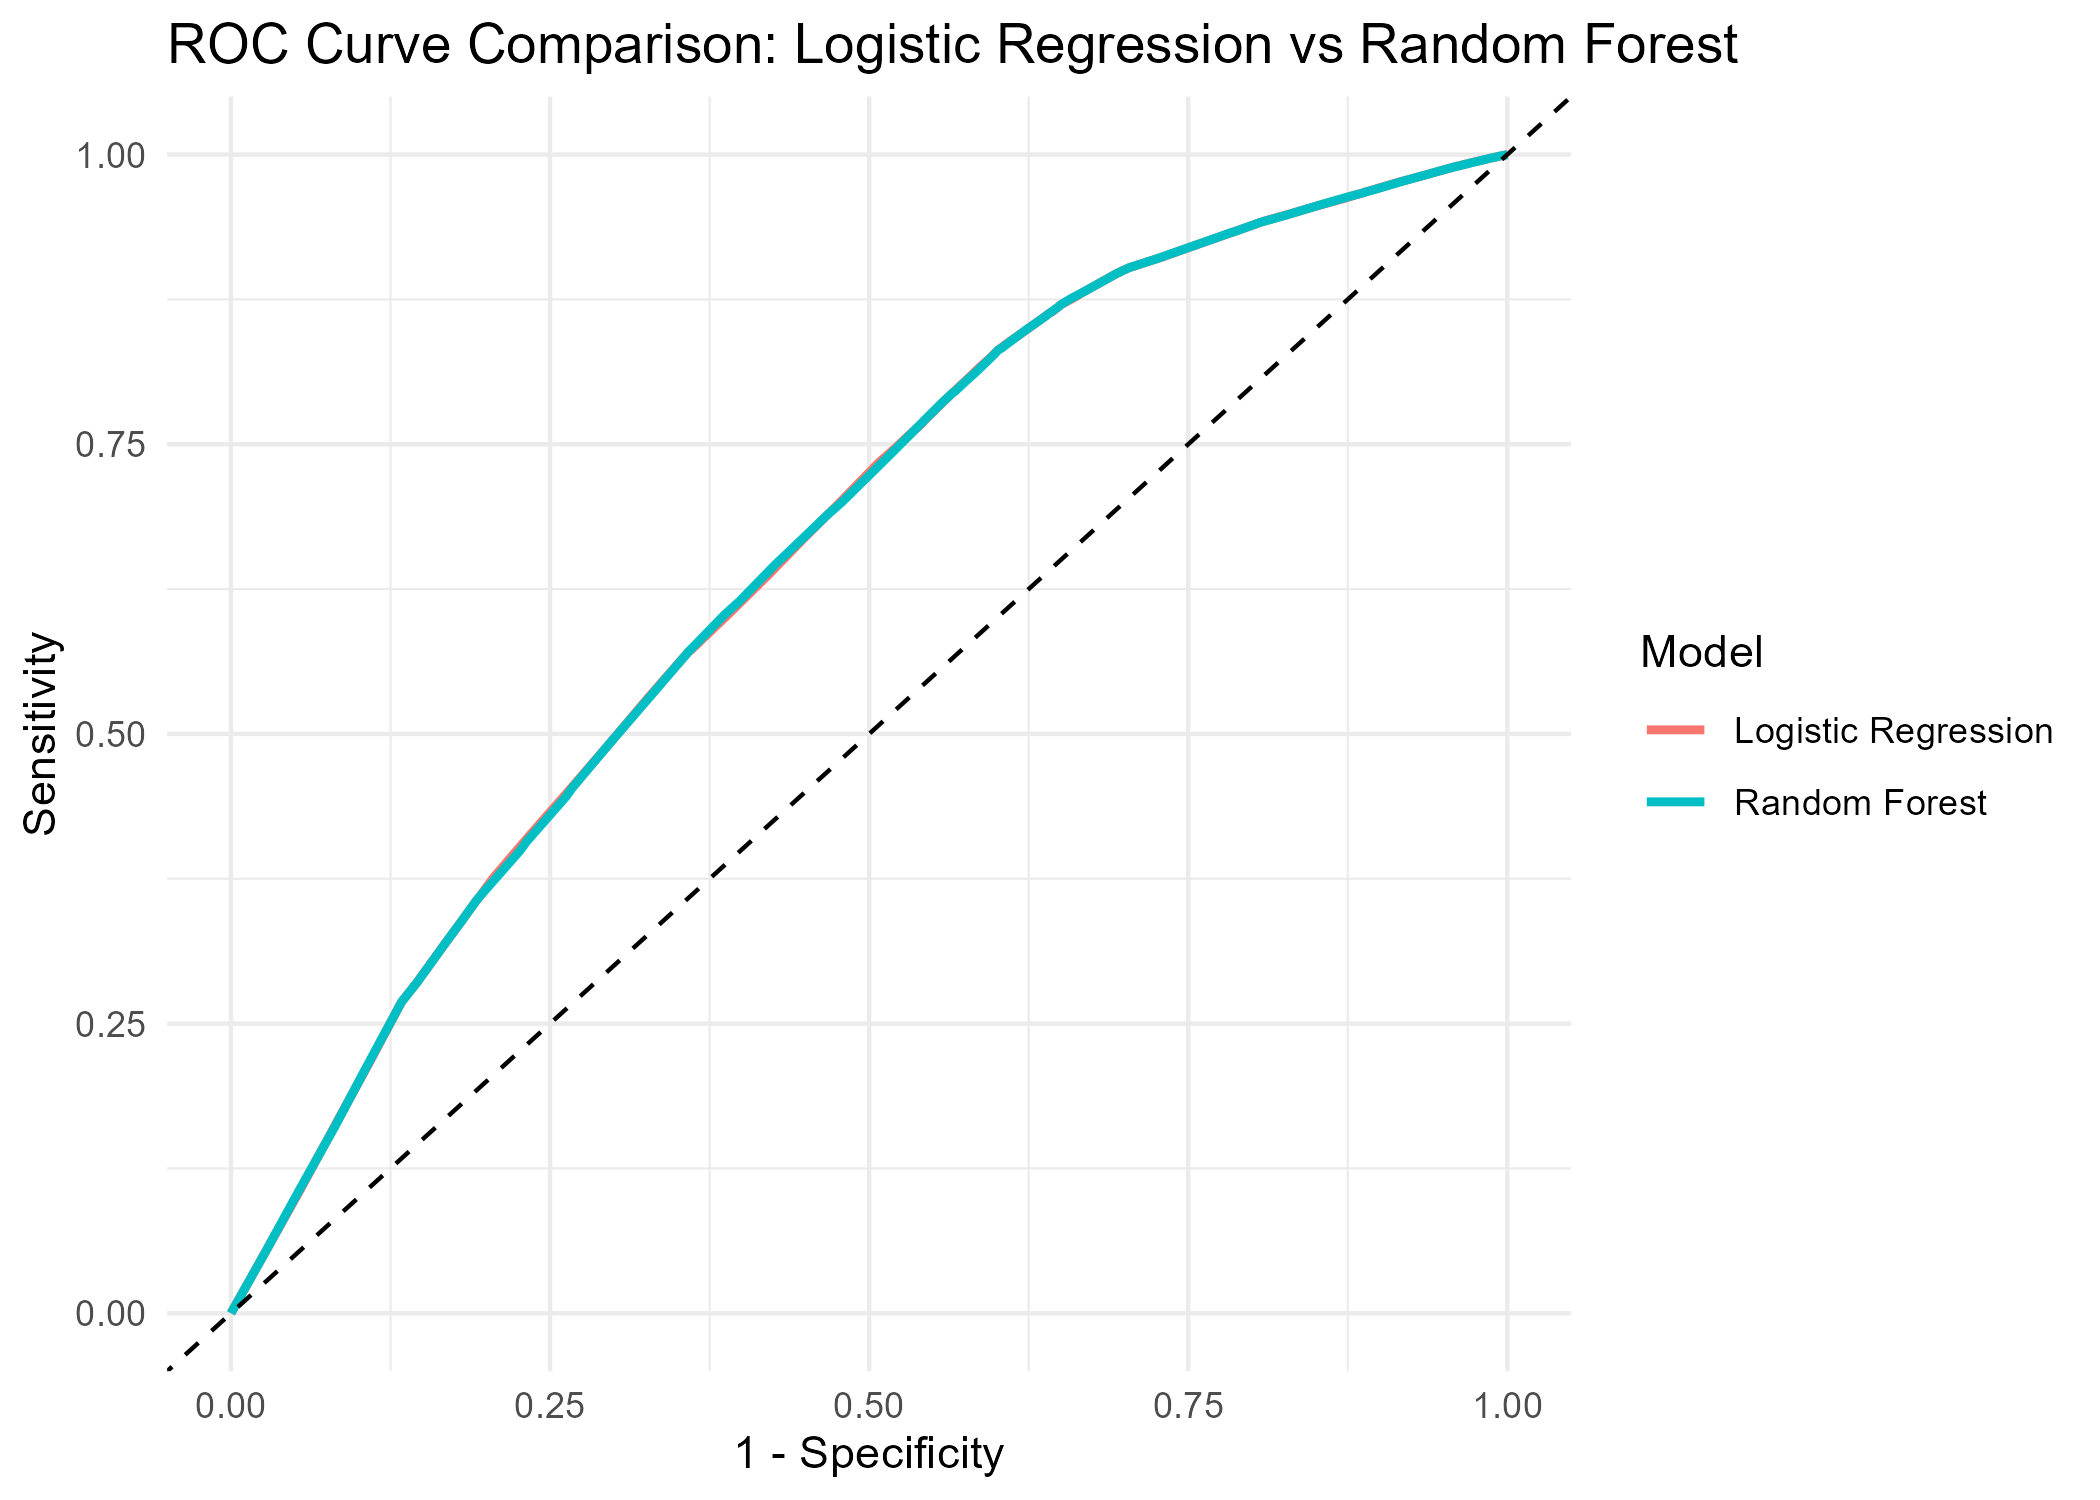
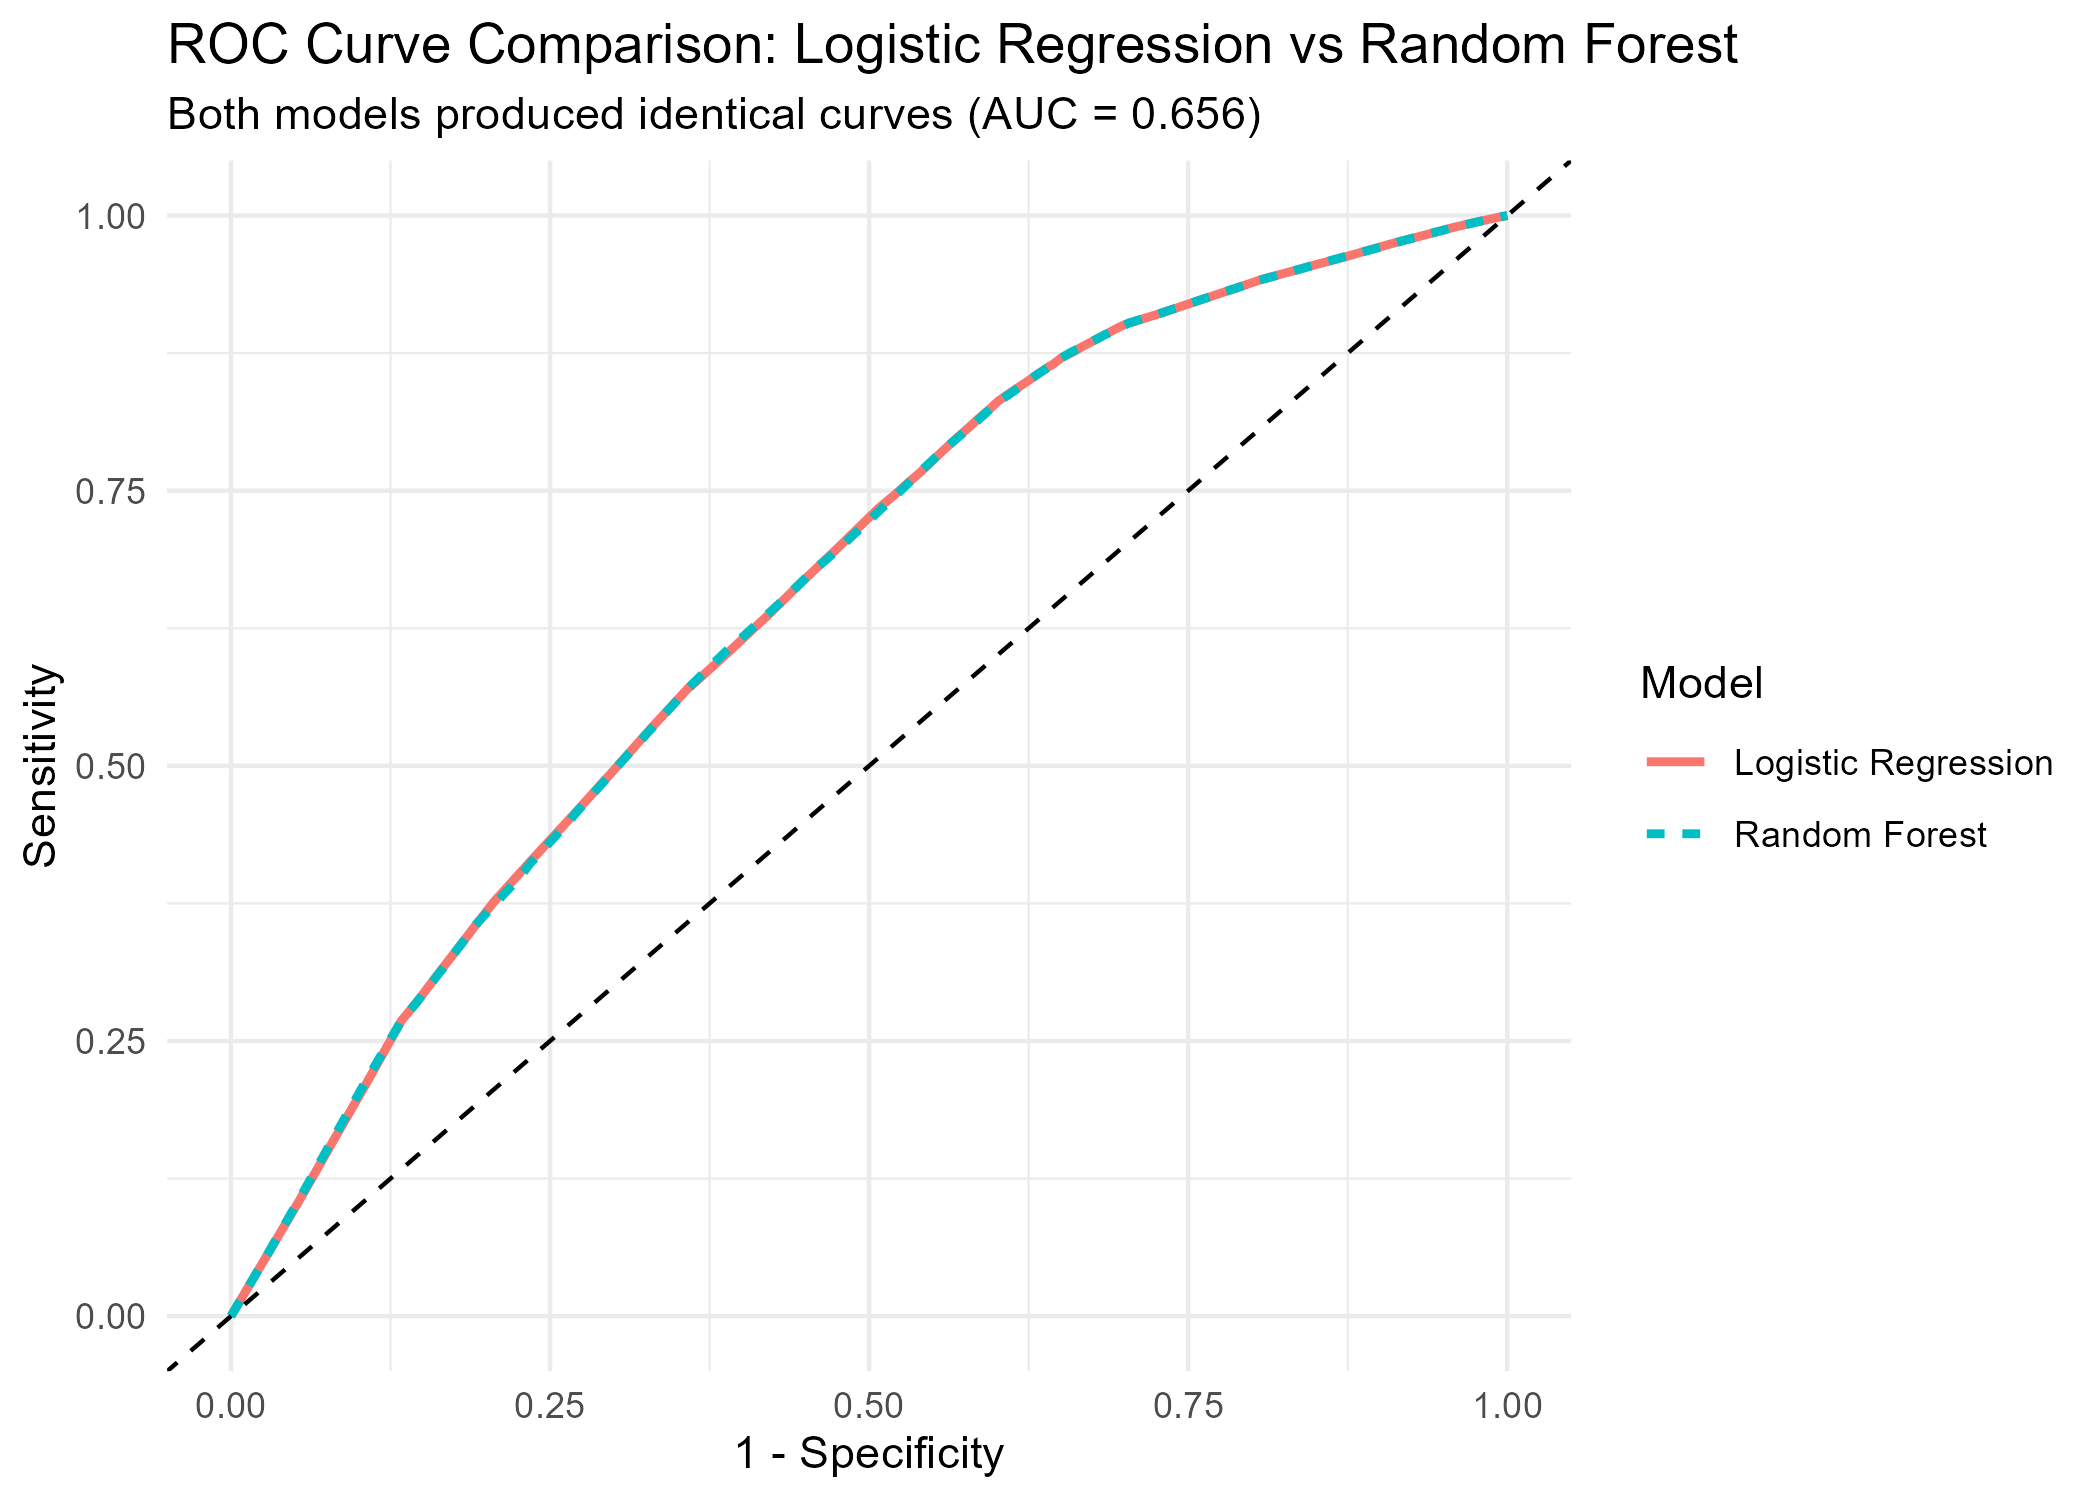
fix bpg_deprs8 recoding and update all analysis files

diff --git a/code/processing/02_create_analytic_dataset.html b/code/processing/02_create_analytic_dataset.html
@@ -170,34 +170,45 @@ pre > code.sourceCode > span > a:first-child::before { text-decoration: underlin
 <span id="cb1-59"><a href="#cb1-59" aria-hidden="true" tabindex="-1"></a>          pp_depress <span class="sc">%in%</span> <span class="fu">c</span>(<span class="dv">1</span>, <span class="st">"1"</span>) <span class="sc">~</span> <span class="dv">1</span>,</span>
 <span id="cb1-60"><a href="#cb1-60" aria-hidden="true" tabindex="-1"></a>          pp_depress <span class="sc">%in%</span> <span class="fu">c</span>(<span class="dv">2</span>, <span class="st">"2"</span>) <span class="sc">~</span> <span class="dv">0</span>,</span>
 <span id="cb1-61"><a href="#cb1-61" aria-hidden="true" tabindex="-1"></a>          <span class="cn">TRUE</span> <span class="sc">~</span> <span class="cn">NA_real_</span></span>
-<span id="cb1-62"><a href="#cb1-62" aria-hidden="true" tabindex="-1"></a>        )</span>
-<span id="cb1-63"><a href="#cb1-63" aria-hidden="true" tabindex="-1"></a>      ) <span class="sc">|&gt;</span></span>
-<span id="cb1-64"><a href="#cb1-64" aria-hidden="true" tabindex="-1"></a>      <span class="fu">filter</span>(<span class="sc">!</span><span class="fu">is.na</span>(screened), <span class="sc">!</span><span class="fu">is.na</span>(pp_depress_bin))</span>
-<span id="cb1-65"><a href="#cb1-65" aria-hidden="true" tabindex="-1"></a></span>
-<span id="cb1-66"><a href="#cb1-66" aria-hidden="true" tabindex="-1"></a>    <span class="co"># Create processed-data folder if needed</span></span>
-<span id="cb1-67"><a href="#cb1-67" aria-hidden="true" tabindex="-1"></a>    <span class="fu">dir.create</span>(<span class="fu">here</span>(<span class="st">"data"</span>, <span class="st">"processed-data"</span>), <span class="at">recursive =</span> <span class="cn">TRUE</span>, <span class="at">showWarnings =</span> <span class="cn">FALSE</span>)</span>
-<span id="cb1-68"><a href="#cb1-68" aria-hidden="true" tabindex="-1"></a></span>
-<span id="cb1-69"><a href="#cb1-69" aria-hidden="true" tabindex="-1"></a>    <span class="co"># Save analytic dataset</span></span>
-<span id="cb1-70"><a href="#cb1-70" aria-hidden="true" tabindex="-1"></a>    <span class="fu">saveRDS</span>(analytic_dat, <span class="fu">here</span>(<span class="st">"data"</span>, <span class="st">"processed-data"</span>, <span class="st">"prams_analytic_localfix.rds"</span>))</span>
-<span id="cb1-71"><a href="#cb1-71" aria-hidden="true" tabindex="-1"></a></span>
-<span id="cb1-72"><a href="#cb1-72" aria-hidden="true" tabindex="-1"></a>    <span class="co"># Confirm saved</span></span>
-<span id="cb1-73"><a href="#cb1-73" aria-hidden="true" tabindex="-1"></a>    <span class="fu">file.exists</span>(<span class="fu">here</span>(<span class="st">"data"</span>, <span class="st">"processed-data"</span>, <span class="st">"prams_analytic_localfix.rds"</span>))</span>
-<span id="cb1-74"><a href="#cb1-74" aria-hidden="true" tabindex="-1"></a></span>
-<span id="cb1-75"><a href="#cb1-75" aria-hidden="true" tabindex="-1"></a>    <span class="co"># Quick checks</span></span>
-<span id="cb1-76"><a href="#cb1-76" aria-hidden="true" tabindex="-1"></a>    <span class="fu">dim</span>(analytic_dat)</span>
-<span id="cb1-77"><a href="#cb1-77" aria-hidden="true" tabindex="-1"></a></span>
-<span id="cb1-78"><a href="#cb1-78" aria-hidden="true" tabindex="-1"></a>    analytic_dat <span class="sc">|&gt;</span> <span class="fu">count</span>(screened) <span class="sc">|&gt;</span> <span class="fu">mutate</span>(<span class="at">pct =</span> n <span class="sc">/</span> <span class="fu">sum</span>(n))</span>
-<span id="cb1-79"><a href="#cb1-79" aria-hidden="true" tabindex="-1"></a>    analytic_dat <span class="sc">|&gt;</span> <span class="fu">count</span>(pp_depress_bin) <span class="sc">|&gt;</span> <span class="fu">mutate</span>(<span class="at">pct =</span> n <span class="sc">/</span> <span class="fu">sum</span>(n))</span>
-<span id="cb1-80"><a href="#cb1-80" aria-hidden="true" tabindex="-1"></a></span>
-<span id="cb1-81"><a href="#cb1-81" aria-hidden="true" tabindex="-1"></a>    analytic_dat <span class="sc">|&gt;</span></span>
-<span id="cb1-82"><a href="#cb1-82" aria-hidden="true" tabindex="-1"></a>      <span class="fu">count</span>(screened, pp_depress_bin) <span class="sc">|&gt;</span></span>
-<span id="cb1-83"><a href="#cb1-83" aria-hidden="true" tabindex="-1"></a>      <span class="fu">group_by</span>(screened) <span class="sc">|&gt;</span></span>
-<span id="cb1-84"><a href="#cb1-84" aria-hidden="true" tabindex="-1"></a>      <span class="fu">mutate</span>(<span class="at">pct =</span> n <span class="sc">/</span> <span class="fu">sum</span>(n))</span>
+<span id="cb1-62"><a href="#cb1-62" aria-hidden="true" tabindex="-1"></a>        ),</span>
+<span id="cb1-63"><a href="#cb1-63" aria-hidden="true" tabindex="-1"></a>        <span class="at">bpg_deprs8_bin =</span> <span class="fu">case_when</span>(</span>
+<span id="cb1-64"><a href="#cb1-64" aria-hidden="true" tabindex="-1"></a>          bpg_deprs8 <span class="sc">%in%</span> <span class="fu">c</span>(<span class="dv">1</span>, <span class="st">"1"</span>) <span class="sc">~</span> <span class="dv">1</span>,</span>
+<span id="cb1-65"><a href="#cb1-65" aria-hidden="true" tabindex="-1"></a>          bpg_deprs8 <span class="sc">%in%</span> <span class="fu">c</span>(<span class="dv">2</span>, <span class="st">"2"</span>) <span class="sc">~</span> <span class="dv">0</span>,</span>
+<span id="cb1-66"><a href="#cb1-66" aria-hidden="true" tabindex="-1"></a>          <span class="cn">TRUE</span> <span class="sc">~</span> <span class="cn">NA_real_</span></span>
+<span id="cb1-67"><a href="#cb1-67" aria-hidden="true" tabindex="-1"></a>        )</span>
+<span id="cb1-68"><a href="#cb1-68" aria-hidden="true" tabindex="-1"></a>      ) <span class="sc">|&gt;</span></span>
+<span id="cb1-69"><a href="#cb1-69" aria-hidden="true" tabindex="-1"></a>      <span class="fu">filter</span>(<span class="sc">!</span><span class="fu">is.na</span>(screened), <span class="sc">!</span><span class="fu">is.na</span>(pp_depress_bin))</span>
+<span id="cb1-70"><a href="#cb1-70" aria-hidden="true" tabindex="-1"></a></span>
+<span id="cb1-71"><a href="#cb1-71" aria-hidden="true" tabindex="-1"></a>    <span class="co"># Create processed-data folder if needed</span></span>
+<span id="cb1-72"><a href="#cb1-72" aria-hidden="true" tabindex="-1"></a>    <span class="fu">dir.create</span>(<span class="fu">here</span>(<span class="st">"data"</span>, <span class="st">"processed-data"</span>), <span class="at">recursive =</span> <span class="cn">TRUE</span>, <span class="at">showWarnings =</span> <span class="cn">FALSE</span>)</span>
+<span id="cb1-73"><a href="#cb1-73" aria-hidden="true" tabindex="-1"></a></span>
+<span id="cb1-74"><a href="#cb1-74" aria-hidden="true" tabindex="-1"></a>    <span class="co"># Save analytic dataset</span></span>
+<span id="cb1-75"><a href="#cb1-75" aria-hidden="true" tabindex="-1"></a>    <span class="fu">saveRDS</span>(analytic_dat, <span class="fu">here</span>(<span class="st">"data"</span>, <span class="st">"processed-data"</span>, <span class="st">"prams_analytic_localfix.rds"</span>))</span>
+<span id="cb1-76"><a href="#cb1-76" aria-hidden="true" tabindex="-1"></a></span>
+<span id="cb1-77"><a href="#cb1-77" aria-hidden="true" tabindex="-1"></a>    <span class="co"># Confirm saved</span></span>
+<span id="cb1-78"><a href="#cb1-78" aria-hidden="true" tabindex="-1"></a>    <span class="fu">file.exists</span>(<span class="fu">here</span>(<span class="st">"data"</span>, <span class="st">"processed-data"</span>, <span class="st">"prams_analytic_localfix.rds"</span>))</span>
+<span id="cb1-79"><a href="#cb1-79" aria-hidden="true" tabindex="-1"></a></span>
+<span id="cb1-80"><a href="#cb1-80" aria-hidden="true" tabindex="-1"></a>    <span class="co"># Quick checks</span></span>
+<span id="cb1-81"><a href="#cb1-81" aria-hidden="true" tabindex="-1"></a>    <span class="fu">dim</span>(analytic_dat)</span>
+<span id="cb1-82"><a href="#cb1-82" aria-hidden="true" tabindex="-1"></a></span>
+<span id="cb1-83"><a href="#cb1-83" aria-hidden="true" tabindex="-1"></a>    analytic_dat <span class="sc">|&gt;</span> <span class="fu">count</span>(screened) <span class="sc">|&gt;</span> <span class="fu">mutate</span>(<span class="at">pct =</span> n <span class="sc">/</span> <span class="fu">sum</span>(n))</span>
+<span id="cb1-84"><a href="#cb1-84" aria-hidden="true" tabindex="-1"></a>    analytic_dat <span class="sc">|&gt;</span> <span class="fu">count</span>(pp_depress_bin) <span class="sc">|&gt;</span> <span class="fu">mutate</span>(<span class="at">pct =</span> n <span class="sc">/</span> <span class="fu">sum</span>(n))</span>
 <span id="cb1-85"><a href="#cb1-85" aria-hidden="true" tabindex="-1"></a></span>
-<span id="cb1-86"><a href="#cb1-86" aria-hidden="true" tabindex="-1"></a>    <span class="fu">message</span>(<span class="st">"Analytic dataset created successfully."</span>)</span>
-<span id="cb1-87"><a href="#cb1-87" aria-hidden="true" tabindex="-1"></a>  }</span>
-<span id="cb1-88"><a href="#cb1-88" aria-hidden="true" tabindex="-1"></a>}</span></code></pre></div><button title="Copy to Clipboard" class="code-copy-button"><i class="bi"></i></button></div>
+<span id="cb1-86"><a href="#cb1-86" aria-hidden="true" tabindex="-1"></a>    analytic_dat <span class="sc">|&gt;</span></span>
+<span id="cb1-87"><a href="#cb1-87" aria-hidden="true" tabindex="-1"></a>      <span class="fu">count</span>(screened, pp_depress_bin) <span class="sc">|&gt;</span></span>
+<span id="cb1-88"><a href="#cb1-88" aria-hidden="true" tabindex="-1"></a>      <span class="fu">group_by</span>(screened) <span class="sc">|&gt;</span></span>
+<span id="cb1-89"><a href="#cb1-89" aria-hidden="true" tabindex="-1"></a>      <span class="fu">mutate</span>(<span class="at">pct =</span> n <span class="sc">/</span> <span class="fu">sum</span>(n))</span>
+<span id="cb1-90"><a href="#cb1-90" aria-hidden="true" tabindex="-1"></a></span>
+<span id="cb1-91"><a href="#cb1-91" aria-hidden="true" tabindex="-1"></a>    <span class="fu">message</span>(<span class="st">"Analytic dataset created successfully."</span>)</span>
+<span id="cb1-92"><a href="#cb1-92" aria-hidden="true" tabindex="-1"></a>  }</span>
+<span id="cb1-93"><a href="#cb1-93" aria-hidden="true" tabindex="-1"></a>}</span></code></pre></div><button title="Copy to Clipboard" class="code-copy-button"><i class="bi"></i></button></div>
 </div>
+<section id="selecting-covariates-based-on-prior-literature-on-postpartum-depression-risk-factors" class="level1">
+<h1>Selecting covariates based on prior literature on postpartum depression risk factors</h1>
+</section>
+<section id="restricting-to-complete-cases-listwise-deletion-appropriate-given-low-missingness-rate" class="level1">
+<h1>Restricting to complete cases – listwise deletion appropriate given low missingness rate</h1>
+</section>
 
 </main>
 <!-- /main column -->

diff --git a/code/analysis/05_model_validation.html b/code/analysis/05_model_validation.html
@@ -122,22 +122,22 @@ pre > code.sourceCode > span > a:first-child::before { text-decoration: underlin
 <span id="cb2-3"><a href="#cb2-3" aria-hidden="true" tabindex="-1"></a></span>
 <span id="cb2-4"><a href="#cb2-4" aria-hidden="true" tabindex="-1"></a>analytic_dat <span class="ot">&lt;-</span> <span class="fu">readRDS</span>(data_path)</span>
 <span id="cb2-5"><a href="#cb2-5" aria-hidden="true" tabindex="-1"></a></span>
-<span id="cb2-6"><a href="#cb2-6" aria-hidden="true" tabindex="-1"></a>required_vars <span class="ot">&lt;-</span> <span class="fu">c</span>(<span class="st">"pp_depress_bin"</span>, <span class="st">"screened"</span>, <span class="st">"bpg_deprs8"</span>, <span class="st">"mat_ed"</span>)</span>
+<span id="cb2-6"><a href="#cb2-6" aria-hidden="true" tabindex="-1"></a>required_vars <span class="ot">&lt;-</span> <span class="fu">c</span>(<span class="st">"pp_depress_bin"</span>, <span class="st">"screened"</span>, <span class="st">"bpg_deprs8_bin"</span>, <span class="st">"mat_ed"</span>)</span>
 <span id="cb2-7"><a href="#cb2-7" aria-hidden="true" tabindex="-1"></a><span class="fu">stopifnot</span>(<span class="fu">all</span>(required_vars <span class="sc">%in%</span> <span class="fu">names</span>(analytic_dat)))</span>
 <span id="cb2-8"><a href="#cb2-8" aria-hidden="true" tabindex="-1"></a></span>
 <span id="cb2-9"><a href="#cb2-9" aria-hidden="true" tabindex="-1"></a>analytic_dat <span class="ot">&lt;-</span> analytic_dat <span class="sc">|&gt;</span></span>
 <span id="cb2-10"><a href="#cb2-10" aria-hidden="true" tabindex="-1"></a>  <span class="fu">mutate</span>(</span>
 <span id="cb2-11"><a href="#cb2-11" aria-hidden="true" tabindex="-1"></a>    <span class="at">pp_depress_bin =</span> <span class="fu">factor</span>(pp_depress_bin, <span class="at">levels =</span> <span class="fu">c</span>(<span class="dv">0</span>, <span class="dv">1</span>), <span class="at">labels =</span> <span class="fu">c</span>(<span class="st">"No"</span>, <span class="st">"Yes"</span>)),</span>
 <span id="cb2-12"><a href="#cb2-12" aria-hidden="true" tabindex="-1"></a>    <span class="at">screened =</span> <span class="fu">factor</span>(screened),</span>
-<span id="cb2-13"><a href="#cb2-13" aria-hidden="true" tabindex="-1"></a>    <span class="at">bpg_deprs8 =</span> <span class="fu">factor</span>(bpg_deprs8),</span>
+<span id="cb2-13"><a href="#cb2-13" aria-hidden="true" tabindex="-1"></a>    <span class="at">bpg_deprs8_bin =</span> <span class="fu">factor</span>(bpg_deprs8_bin),</span>
 <span id="cb2-14"><a href="#cb2-14" aria-hidden="true" tabindex="-1"></a>    <span class="at">mat_ed =</span> <span class="fu">factor</span>(mat_ed)</span>
 <span id="cb2-15"><a href="#cb2-15" aria-hidden="true" tabindex="-1"></a>  ) <span class="sc">|&gt;</span></span>
-<span id="cb2-16"><a href="#cb2-16" aria-hidden="true" tabindex="-1"></a>  <span class="fu">drop_na</span>(pp_depress_bin, screened, bpg_deprs8, mat_ed)</span>
+<span id="cb2-16"><a href="#cb2-16" aria-hidden="true" tabindex="-1"></a>  <span class="fu">drop_na</span>(pp_depress_bin, screened, bpg_deprs8_bin, mat_ed)</span>
 <span id="cb2-17"><a href="#cb2-17" aria-hidden="true" tabindex="-1"></a></span>
 <span id="cb2-18"><a href="#cb2-18" aria-hidden="true" tabindex="-1"></a><span class="fu">glimpse</span>(analytic_dat)</span></code></pre></div><button title="Copy to Clipboard" class="code-copy-button"><i class="bi"></i></button></div>
 <div class="cell-output cell-output-stdout">
 <pre><code>Rows: 233,213
-Columns: 18
+Columns: 19
 $ id             &lt;chr&gt; "2016AK327002", "2016AK327006", "2016AK327007", "2016AK…
 $ pp_depress     &lt;dbl&gt; 2, 1, 1, 1, 2, 1, 1, 1, 1, 1, 1, 2, 1, 2, 1, 1, 1, 1, 1…
 $ ask_dprs       &lt;dbl&gt; 2, 2, 2, 2, 2, 2, 2, 2, 2, 2, 2, 1, 2, 2, 2, 2, 2, 2, 2…
@@ -146,7 +146,7 @@ $ mat_ed         &lt;fct&gt; 3, 2, 3, 3, 2, 4, 4, 2, 3, 3, 3, 3, 4, 3, 3, 3, 2, 
 $ income8        &lt;dbl&gt; 101, 102, 107, 104, 101, 112, 101, 101, 104, 101, NA, 1…
 $ hispanic       &lt;dbl&gt; 1, 1, 1, 1, 1, 1, 2, 1, 1, 1, 1, 1, 1, 1, 1, 1, 1, 1, 1…
 $ married        &lt;dbl&gt; 2, 2, 2, 1, 2, 1, 2, 2, 1, 2, 1, 1, 1, 1, 2, 1, 2, 1, 1…
-$ bpg_deprs8     &lt;fct&gt; 2, 1, 1, 1, 2, 1, 1, 1, 1, 2, 1, 1, 1, 1, 1, 1, 2, 1, 1…
+$ bpg_deprs8     &lt;dbl&gt; 2, 1, 1, 1, 2, 1, 1, 1, 1, 2, 1, 1, 1, 1, 1, 1, 2, 1, 1…
 $ hth_anx        &lt;dbl&gt; 1, 1, 1, 1, 2, 1, 1, 1, 1, 2, 1, 1, 1, 1, 2, 1, 2, 1, 1…
 $ kotelchuck     &lt;dbl&gt; 2, 3, 2, 3, 2, 2, 3, 3, 2, 4, 3, 2, 2, 2, 3, 1, 1, 4, 4…
 $ pnc_1trm       &lt;dbl&gt; 1, 2, 2, 1, 1, 2, 1, 1, 1, 1, NA, 1, 2, 1, 1, 2, 2, 1, …
@@ -155,7 +155,8 @@ $ stratumc       &lt;dbl&gt; 129, 129, 129, 129, 129, 129, 129, 129, 129, 129, 1
 $ sud_nest       &lt;dbl&gt; 1292016, 1292016, 1292016, 1292016, 1292016, 1292016, 1…
 $ nest_yr        &lt;dbl&gt; 2016, 2016, 2016, 2016, 2016, 2016, 2016, 2016, 2016, 2…
 $ screened       &lt;fct&gt; 0, 0, 0, 0, 0, 0, 0, 0, 0, 0, 0, 1, 0, 0, 0, 0, 0, 0, 0…
-$ pp_depress_bin &lt;fct&gt; No, Yes, Yes, Yes, No, Yes, Yes, Yes, Yes, Yes, Yes, No…</code></pre>
+$ pp_depress_bin &lt;fct&gt; No, Yes, Yes, Yes, No, Yes, Yes, Yes, Yes, Yes, Yes, No…
+$ bpg_deprs8_bin &lt;fct&gt; 0, 1, 1, 1, 0, 1, 1, 1, 1, 0, 1, 1, 1, 1, 1, 1, 0, 1, 1…</code></pre>
 </div>
 </div>
 <section id="cross-validation" class="level1">
@@ -190,7 +191,7 @@ $ pp_depress_bin &lt;fct&gt; No, Yes, Yes, Yes, No, Yes, Yes, Yes, Yes, Yes, Yes
 <span id="cb6-6"><a href="#cb6-6" aria-hidden="true" tabindex="-1"></a>log_spec <span class="ot">&lt;-</span> <span class="fu">logistic_reg</span>() <span class="sc">|&gt;</span></span>
 <span id="cb6-7"><a href="#cb6-7" aria-hidden="true" tabindex="-1"></a>  <span class="fu">set_engine</span>(<span class="st">"glm"</span>)</span>
 <span id="cb6-8"><a href="#cb6-8" aria-hidden="true" tabindex="-1"></a></span>
-<span id="cb6-9"><a href="#cb6-9" aria-hidden="true" tabindex="-1"></a>log_recipe <span class="ot">&lt;-</span> <span class="fu">recipe</span>(pp_depress_bin <span class="sc">~</span> screened <span class="sc">+</span> bpg_deprs8 <span class="sc">+</span> mat_ed, <span class="at">data =</span> analytic_dat)</span>
+<span id="cb6-9"><a href="#cb6-9" aria-hidden="true" tabindex="-1"></a>log_recipe <span class="ot">&lt;-</span> <span class="fu">recipe</span>(pp_depress_bin <span class="sc">~</span> screened <span class="sc">+</span> bpg_deprs8_bin <span class="sc">+</span> mat_ed, <span class="at">data =</span> analytic_dat)</span>
 <span id="cb6-10"><a href="#cb6-10" aria-hidden="true" tabindex="-1"></a></span>
 <span id="cb6-11"><a href="#cb6-11" aria-hidden="true" tabindex="-1"></a>log_workflow <span class="ot">&lt;-</span> <span class="fu">workflow</span>() <span class="sc">|&gt;</span></span>
 <span id="cb6-12"><a href="#cb6-12" aria-hidden="true" tabindex="-1"></a>  <span class="fu">add_model</span>(log_spec) <span class="sc">|&gt;</span></span>
@@ -222,7 +223,7 @@ $ pp_depress_bin &lt;fct&gt; No, Yes, Yes, Yes, No, Yes, Yes, Yes, Yes, Yes, Yes
 <div class="code-copy-outer-scaffold"><div class="sourceCode cell-code" id="cb8"><pre class="sourceCode r code-with-copy"><code class="sourceCode r"><span id="cb8-1"><a href="#cb8-1" aria-hidden="true" tabindex="-1"></a>rf_spec <span class="ot">&lt;-</span> <span class="fu">rand_forest</span>(<span class="at">trees =</span> <span class="dv">300</span>, <span class="at">mode =</span> <span class="st">"classification"</span>) <span class="sc">|&gt;</span></span>
 <span id="cb8-2"><a href="#cb8-2" aria-hidden="true" tabindex="-1"></a>  <span class="fu">set_engine</span>(<span class="st">"ranger"</span>)</span>
 <span id="cb8-3"><a href="#cb8-3" aria-hidden="true" tabindex="-1"></a></span>
-<span id="cb8-4"><a href="#cb8-4" aria-hidden="true" tabindex="-1"></a>rf_recipe <span class="ot">&lt;-</span> <span class="fu">recipe</span>(pp_depress_bin <span class="sc">~</span> screened <span class="sc">+</span> bpg_deprs8 <span class="sc">+</span> mat_ed, <span class="at">data =</span> analytic_dat)</span>
+<span id="cb8-4"><a href="#cb8-4" aria-hidden="true" tabindex="-1"></a>rf_recipe <span class="ot">&lt;-</span> <span class="fu">recipe</span>(pp_depress_bin <span class="sc">~</span> screened <span class="sc">+</span> bpg_deprs8_bin <span class="sc">+</span> mat_ed, <span class="at">data =</span> analytic_dat)</span>
 <span id="cb8-5"><a href="#cb8-5" aria-hidden="true" tabindex="-1"></a></span>
 <span id="cb8-6"><a href="#cb8-6" aria-hidden="true" tabindex="-1"></a>rf_workflow <span class="ot">&lt;-</span> <span class="fu">workflow</span>() <span class="sc">|&gt;</span></span>
 <span id="cb8-7"><a href="#cb8-7" aria-hidden="true" tabindex="-1"></a>  <span class="fu">add_model</span>(rf_spec) <span class="sc">|&gt;</span></span>
@@ -244,7 +245,7 @@ $ pp_depress_bin &lt;fct&gt; No, Yes, Yes, Yes, No, Yes, Yes, Yes, Yes, Yes, Yes
   .metric  .estimator  mean     n    std_err .config         model        
   &lt;chr&gt;    &lt;chr&gt;      &lt;dbl&gt; &lt;int&gt;      &lt;dbl&gt; &lt;chr&gt;           &lt;chr&gt;        
 1 accuracy binary     0.859     5 0.00000308 pre0_mod0_post0 Random forest
-2 roc_auc  binary     0.344     5 0.000950   pre0_mod0_post0 Random forest</code></pre>
+2 roc_auc  binary     0.344     5 0.000947   pre0_mod0_post0 Random forest</code></pre>
 </div>
 </div>
 </section>
@@ -281,7 +282,7 @@ $ pp_depress_bin &lt;fct&gt; No, Yes, Yes, Yes, No, Yes, Yes, Yes, Yes, Yes, Yes
   &lt;chr&gt;               &lt;chr&gt;    &lt;dbl&gt;      &lt;dbl&gt; &lt;int&gt;
 1 Logistic regression accuracy 0.859 0.00000308     5
 2 Random forest       accuracy 0.859 0.00000308     5
-3 Random forest       roc_auc  0.656 0.000950       5
+3 Random forest       roc_auc  0.656 0.000947       5
 4 Logistic regression roc_auc  0.656 0.000836       5</code></pre>
 </div>
 <div class="code-copy-outer-scaffold"><div class="sourceCode cell-code" id="cb12"><pre class="sourceCode r code-with-copy"><code class="sourceCode r"><span id="cb12-1"><a href="#cb12-1" aria-hidden="true" tabindex="-1"></a><span class="fu">dir.create</span>(<span class="fu">here</span>(<span class="st">"results"</span>, <span class="st">"tables"</span>), <span class="at">showWarnings =</span> <span class="cn">FALSE</span>, <span class="at">recursive =</span> <span class="cn">TRUE</span>)</span>
@@ -322,18 +323,21 @@ $ pp_depress_bin &lt;fct&gt; No, Yes, Yes, Yes, No, Yes, Yes, Yes, Yes, Yes, Yes
 <span id="cb20-10"><a href="#cb20-10" aria-hidden="true" tabindex="-1"></a>roc_plot <span class="ot">&lt;-</span> all_preds <span class="sc">|&gt;</span></span>
 <span id="cb20-11"><a href="#cb20-11" aria-hidden="true" tabindex="-1"></a>  <span class="fu">group_by</span>(model) <span class="sc">|&gt;</span></span>
 <span id="cb20-12"><a href="#cb20-12" aria-hidden="true" tabindex="-1"></a>  <span class="fu">roc_curve</span>(<span class="at">truth =</span> pp_depress_bin, .pred_Yes, <span class="at">event_level =</span> <span class="st">"second"</span>) <span class="sc">|&gt;</span></span>
-<span id="cb20-13"><a href="#cb20-13" aria-hidden="true" tabindex="-1"></a>  <span class="fu">ggplot</span>(<span class="fu">aes</span>(<span class="at">x =</span> <span class="dv">1</span> <span class="sc">-</span> specificity, <span class="at">y =</span> sensitivity, <span class="at">color =</span> model)) <span class="sc">+</span></span>
-<span id="cb20-14"><a href="#cb20-14" aria-hidden="true" tabindex="-1"></a>  <span class="fu">geom_line</span>(<span class="at">linewidth =</span> <span class="dv">1</span>) <span class="sc">+</span></span>
-<span id="cb20-15"><a href="#cb20-15" aria-hidden="true" tabindex="-1"></a>  <span class="fu">geom_abline</span>(<span class="at">lty =</span> <span class="dv">2</span>) <span class="sc">+</span></span>
-<span id="cb20-16"><a href="#cb20-16" aria-hidden="true" tabindex="-1"></a>  <span class="fu">labs</span>(</span>
-<span id="cb20-17"><a href="#cb20-17" aria-hidden="true" tabindex="-1"></a>    <span class="at">title =</span> <span class="st">"ROC Curve Comparison: Logistic Regression vs Random Forest"</span>,</span>
-<span id="cb20-18"><a href="#cb20-18" aria-hidden="true" tabindex="-1"></a>    <span class="at">x =</span> <span class="st">"1 - Specificity"</span>,</span>
-<span id="cb20-19"><a href="#cb20-19" aria-hidden="true" tabindex="-1"></a>    <span class="at">y =</span> <span class="st">"Sensitivity"</span>,</span>
-<span id="cb20-20"><a href="#cb20-20" aria-hidden="true" tabindex="-1"></a>    <span class="at">color =</span> <span class="st">"Model"</span></span>
-<span id="cb20-21"><a href="#cb20-21" aria-hidden="true" tabindex="-1"></a>  ) <span class="sc">+</span></span>
-<span id="cb20-22"><a href="#cb20-22" aria-hidden="true" tabindex="-1"></a>  <span class="fu">theme_minimal</span>()</span>
-<span id="cb20-23"><a href="#cb20-23" aria-hidden="true" tabindex="-1"></a></span>
-<span id="cb20-24"><a href="#cb20-24" aria-hidden="true" tabindex="-1"></a>roc_plot</span></code></pre></div><button title="Copy to Clipboard" class="code-copy-button"><i class="bi"></i></button></div>
+<span id="cb20-13"><a href="#cb20-13" aria-hidden="true" tabindex="-1"></a>  <span class="fu">ggplot</span>(<span class="fu">aes</span>(<span class="at">x =</span> <span class="dv">1</span> <span class="sc">-</span> specificity, <span class="at">y =</span> sensitivity, </span>
+<span id="cb20-14"><a href="#cb20-14" aria-hidden="true" tabindex="-1"></a>             <span class="at">color =</span> model, <span class="at">linetype =</span> model)) <span class="sc">+</span></span>
+<span id="cb20-15"><a href="#cb20-15" aria-hidden="true" tabindex="-1"></a>  <span class="fu">geom_line</span>(<span class="at">linewidth =</span> <span class="dv">1</span>) <span class="sc">+</span></span>
+<span id="cb20-16"><a href="#cb20-16" aria-hidden="true" tabindex="-1"></a>  <span class="fu">geom_abline</span>(<span class="at">lty =</span> <span class="dv">2</span>) <span class="sc">+</span></span>
+<span id="cb20-17"><a href="#cb20-17" aria-hidden="true" tabindex="-1"></a>  <span class="fu">labs</span>(</span>
+<span id="cb20-18"><a href="#cb20-18" aria-hidden="true" tabindex="-1"></a>    <span class="at">title =</span> <span class="st">"ROC Curve Comparison: Logistic Regression vs Random Forest"</span>,</span>
+<span id="cb20-19"><a href="#cb20-19" aria-hidden="true" tabindex="-1"></a>    <span class="at">subtitle =</span> <span class="st">"Both models produced identical curves (AUC = 0.656)"</span>,</span>
+<span id="cb20-20"><a href="#cb20-20" aria-hidden="true" tabindex="-1"></a>    <span class="at">x =</span> <span class="st">"1 - Specificity"</span>,</span>
+<span id="cb20-21"><a href="#cb20-21" aria-hidden="true" tabindex="-1"></a>    <span class="at">y =</span> <span class="st">"Sensitivity"</span>,</span>
+<span id="cb20-22"><a href="#cb20-22" aria-hidden="true" tabindex="-1"></a>    <span class="at">color =</span> <span class="st">"Model"</span>,</span>
+<span id="cb20-23"><a href="#cb20-23" aria-hidden="true" tabindex="-1"></a>    <span class="at">linetype =</span> <span class="st">"Model"</span></span>
+<span id="cb20-24"><a href="#cb20-24" aria-hidden="true" tabindex="-1"></a>  ) <span class="sc">+</span></span>
+<span id="cb20-25"><a href="#cb20-25" aria-hidden="true" tabindex="-1"></a>  <span class="fu">theme_minimal</span>()</span>
+<span id="cb20-26"><a href="#cb20-26" aria-hidden="true" tabindex="-1"></a></span>
+<span id="cb20-27"><a href="#cb20-27" aria-hidden="true" tabindex="-1"></a>roc_plot</span></code></pre></div><button title="Copy to Clipboard" class="code-copy-button"><i class="bi"></i></button></div>
 <div class="cell-output-display">
 <div>
 <figure class="figure">

diff --git a/code/analysis/04_statistical_analysis.html b/code/analysis/04_statistical_analysis.html
@@ -131,7 +131,7 @@ pre > code.sourceCode > span > a:first-child::before { text-decoration: underlin
 <span id="cb2-12"><a href="#cb2-12" aria-hidden="true" tabindex="-1"></a><span class="fu">glimpse</span>(dat)</span></code></pre></div><button title="Copy to Clipboard" class="code-copy-button"><i class="bi"></i></button></div>
 <div class="cell-output cell-output-stdout">
 <pre><code>Rows: 237,392
-Columns: 18
+Columns: 19
 $ id             &lt;chr&gt; "2016AK327002", "2016AK327006", "2016AK327007", "2016AK…
 $ pp_depress     &lt;dbl&gt; 2, 1, 1, 1, 2, 1, 1, 1, 1, 1, 1, 2, 1, 2, 1, 1, 1, 1, 1…
 $ ask_dprs       &lt;dbl&gt; 2, 2, 2, 2, 2, 2, 2, 2, 2, 2, 2, 1, 2, 2, 2, 2, 2, 2, 2…
@@ -149,14 +149,15 @@ $ stratumc       &lt;dbl&gt; 129, 129, 129, 129, 129, 129, 129, 129, 129, 129, 1
 $ sud_nest       &lt;dbl&gt; 1292016, 1292016, 1292016, 1292016, 1292016, 1292016, 1…
 $ nest_yr        &lt;dbl&gt; 2016, 2016, 2016, 2016, 2016, 2016, 2016, 2016, 2016, 2…
 $ screened       &lt;dbl&gt; 0, 0, 0, 0, 0, 0, 0, 0, 0, 0, 0, 1, 0, 0, 0, 0, 0, 0, 0…
-$ pp_depress_bin &lt;dbl&gt; 0, 1, 1, 1, 0, 1, 1, 1, 1, 1, 1, 0, 1, 0, 1, 1, 1, 1, 1…</code></pre>
+$ pp_depress_bin &lt;dbl&gt; 0, 1, 1, 1, 0, 1, 1, 1, 1, 1, 1, 0, 1, 0, 1, 1, 1, 1, 1…
+$ bpg_deprs8_bin &lt;dbl&gt; 0, 1, 1, 1, 0, 1, 1, 1, 1, 0, 1, 1, 1, 1, 1, 1, 0, 1, 1…</code></pre>
 </div>
 </div>
 <div class="cell">
 <div class="code-copy-outer-scaffold"><div class="sourceCode cell-code" id="cb4"><pre class="sourceCode r code-with-copy"><code class="sourceCode r"><span id="cb4-1"><a href="#cb4-1" aria-hidden="true" tabindex="-1"></a><span class="co"># Define variables</span></span>
 <span id="cb4-2"><a href="#cb4-2" aria-hidden="true" tabindex="-1"></a>outcome <span class="ot">&lt;-</span> <span class="st">"pp_depress_bin"</span></span>
 <span id="cb4-3"><a href="#cb4-3" aria-hidden="true" tabindex="-1"></a>main_exposure <span class="ot">&lt;-</span> <span class="st">"screened"</span></span>
-<span id="cb4-4"><a href="#cb4-4" aria-hidden="true" tabindex="-1"></a>covariates <span class="ot">&lt;-</span> <span class="fu">c</span>(<span class="st">"bpg_deprs8"</span>, <span class="st">"mat_ed"</span>)</span>
+<span id="cb4-4"><a href="#cb4-4" aria-hidden="true" tabindex="-1"></a>covariates <span class="ot">&lt;-</span> <span class="fu">c</span>(<span class="st">"bpg_deprs8_bin"</span>, <span class="st">"mat_ed"</span>)</span>
 <span id="cb4-5"><a href="#cb4-5" aria-hidden="true" tabindex="-1"></a></span>
 <span id="cb4-6"><a href="#cb4-6" aria-hidden="true" tabindex="-1"></a>all_vars <span class="ot">&lt;-</span> <span class="fu">c</span>(outcome, main_exposure, covariates)</span>
 <span id="cb4-7"><a href="#cb4-7" aria-hidden="true" tabindex="-1"></a><span class="fu">stopifnot</span>(<span class="fu">all</span>(all_vars <span class="sc">%in%</span> <span class="fu">names</span>(dat)))</span>
@@ -167,7 +168,7 @@ $ pp_depress_bin &lt;dbl&gt; 0, 1, 1, 1, 0, 1, 1, 1, 1, 1, 1, 0, 1, 0, 1, 1, 1, 
 <span id="cb4-12"><a href="#cb4-12" aria-hidden="true" tabindex="-1"></a>  <span class="fu">drop_na</span>() <span class="sc">|&gt;</span></span>
 <span id="cb4-13"><a href="#cb4-13" aria-hidden="true" tabindex="-1"></a>  <span class="fu">mutate</span>(</span>
 <span id="cb4-14"><a href="#cb4-14" aria-hidden="true" tabindex="-1"></a>    <span class="at">screened =</span> <span class="fu">as.factor</span>(screened),</span>
-<span id="cb4-15"><a href="#cb4-15" aria-hidden="true" tabindex="-1"></a>    <span class="at">bpg_deprs8 =</span> <span class="fu">as.factor</span>(bpg_deprs8),</span>
+<span id="cb4-15"><a href="#cb4-15" aria-hidden="true" tabindex="-1"></a>    <span class="at">bpg_deprs8_bin =</span> <span class="fu">as.factor</span>(bpg_deprs8_bin),</span>
 <span id="cb4-16"><a href="#cb4-16" aria-hidden="true" tabindex="-1"></a>    <span class="at">mat_ed =</span> <span class="fu">as.factor</span>(mat_ed)</span>
 <span id="cb4-17"><a href="#cb4-17" aria-hidden="true" tabindex="-1"></a>  )</span></code></pre></div><button title="Copy to Clipboard" class="code-copy-button"><i class="bi"></i></button></div>
 </div>
@@ -239,7 +240,7 @@ $ pp_depress_bin &lt;dbl&gt; 0, 1, 1, 1, 0, 1, 1, 1, 1, 1, 1, 0, 1, 0, 1, 1, 1, 
 <h1>Multivariable logistic regression model</h1>
 <div class="cell">
 <div class="code-copy-outer-scaffold"><div class="sourceCode cell-code" id="cb13"><pre class="sourceCode r code-with-copy"><code class="sourceCode r"><span id="cb13-1"><a href="#cb13-1" aria-hidden="true" tabindex="-1"></a>fit_multi <span class="ot">&lt;-</span> <span class="fu">glm</span>(</span>
-<span id="cb13-2"><a href="#cb13-2" aria-hidden="true" tabindex="-1"></a>  pp_depress_bin <span class="sc">~</span> screened <span class="sc">+</span> bpg_deprs8 <span class="sc">+</span> mat_ed,</span>
+<span id="cb13-2"><a href="#cb13-2" aria-hidden="true" tabindex="-1"></a>  pp_depress_bin <span class="sc">~</span> screened <span class="sc">+</span> bpg_deprs8_bin <span class="sc">+</span> mat_ed,</span>
 <span id="cb13-3"><a href="#cb13-3" aria-hidden="true" tabindex="-1"></a>  <span class="at">data =</span> analysis_dat,</span>
 <span id="cb13-4"><a href="#cb13-4" aria-hidden="true" tabindex="-1"></a>  <span class="at">family =</span> <span class="fu">binomial</span>()</span>
 <span id="cb13-5"><a href="#cb13-5" aria-hidden="true" tabindex="-1"></a>)</span>
@@ -249,15 +250,15 @@ $ pp_depress_bin &lt;dbl&gt; 0, 1, 1, 1, 0, 1, 1, 1, 1, 1, 1, 0, 1, 0, 1, 1, 1, 
 <span id="cb13-9"><a href="#cb13-9" aria-hidden="true" tabindex="-1"></a>multi_tbl</span></code></pre></div><button title="Copy to Clipboard" class="code-copy-button"><i class="bi"></i></button></div>
 <div class="cell-output cell-output-stdout">
 <pre><code># A tibble: 7 × 7
-  term        estimate std.error statistic  p.value conf.low conf.high
-  &lt;chr&gt;          &lt;dbl&gt;     &lt;dbl&gt;     &lt;dbl&gt;    &lt;dbl&gt;    &lt;dbl&gt;     &lt;dbl&gt;
-1 (Intercept)    8.54     0.0385     55.7  0           7.92      9.21 
-2 screened1      0.759    0.0154    -17.9  2.30e-71    0.737     0.783
-3 bpg_deprs82    0.296    0.0136    -89.5  0           0.288     0.304
-4 mat_ed2        0.735    0.0425     -7.24 4.64e-13    0.676     0.799
-5 mat_ed3        0.776    0.0399     -6.36 2.03e-10    0.717     0.838
-6 mat_ed4        0.919    0.0398     -2.12 3.39e- 2    0.849     0.993
-7 mat_ed5        1.44     0.0400      9.13 6.62e-20    1.33      1.56 </code></pre>
+  term            estimate std.error statistic   p.value conf.low conf.high
+  &lt;chr&gt;              &lt;dbl&gt;     &lt;dbl&gt;     &lt;dbl&gt;     &lt;dbl&gt;    &lt;dbl&gt;     &lt;dbl&gt;
+1 (Intercept)        2.53     0.0399     23.3  7.90e-120    2.34      2.74 
+2 screened1          0.759    0.0154    -17.9  2.30e- 71    0.737     0.783
+3 bpg_deprs8_bin1    3.38     0.0136     89.5  0            3.29      3.47 
+4 mat_ed2            0.735    0.0425     -7.24 4.64e- 13    0.676     0.799
+5 mat_ed3            0.776    0.0399     -6.36 2.03e- 10    0.717     0.838
+6 mat_ed4            0.919    0.0398     -2.12 3.39e-  2    0.849     0.993
+7 mat_ed5            1.44     0.0400      9.13 6.62e- 20    1.33      1.56 </code></pre>
 </div>
 </div>
 </section>
@@ -274,7 +275,7 @@ $ pp_depress_bin &lt;dbl&gt; 0, 1, 1, 1, 0, 1, 1, 1, 1, 1, 1, 0, 1, 0, 1, 1, 1, 
 <div class="code-copy-outer-scaffold"><div class="sourceCode cell-code" id="cb16"><pre class="sourceCode r code-with-copy"><code class="sourceCode r"><span id="cb16-1"><a href="#cb16-1" aria-hidden="true" tabindex="-1"></a>analysis_dat2 <span class="ot">&lt;-</span> analysis_dat <span class="sc">|&gt;</span></span>
 <span id="cb16-2"><a href="#cb16-2" aria-hidden="true" tabindex="-1"></a>  <span class="fu">mutate</span>(<span class="at">pp_depress_bin =</span> <span class="fu">factor</span>(pp_depress_bin, <span class="at">levels =</span> <span class="fu">c</span>(<span class="dv">0</span>, <span class="dv">1</span>)))</span>
 <span id="cb16-3"><a href="#cb16-3" aria-hidden="true" tabindex="-1"></a></span>
-<span id="cb16-4"><a href="#cb16-4" aria-hidden="true" tabindex="-1"></a>rec <span class="ot">&lt;-</span> <span class="fu">recipe</span>(pp_depress_bin <span class="sc">~</span> screened <span class="sc">+</span> bpg_deprs8 <span class="sc">+</span> mat_ed, <span class="at">data =</span> analysis_dat2) <span class="sc">|&gt;</span></span>
+<span id="cb16-4"><a href="#cb16-4" aria-hidden="true" tabindex="-1"></a>rec <span class="ot">&lt;-</span> <span class="fu">recipe</span>(pp_depress_bin <span class="sc">~</span> screened <span class="sc">+</span> bpg_deprs8_bin <span class="sc">+</span> mat_ed, <span class="at">data =</span> analysis_dat2) <span class="sc">|&gt;</span></span>
 <span id="cb16-5"><a href="#cb16-5" aria-hidden="true" tabindex="-1"></a>  <span class="fu">step_dummy</span>(<span class="fu">all_nominal_predictors</span>()) <span class="sc">|&gt;</span></span>
 <span id="cb16-6"><a href="#cb16-6" aria-hidden="true" tabindex="-1"></a>  <span class="fu">step_zv</span>(<span class="fu">all_predictors</span>())</span>
 <span id="cb16-7"><a href="#cb16-7" aria-hidden="true" tabindex="-1"></a></span>
@@ -307,10 +308,10 @@ Model: logistic_reg()
 Call:  stats::glm(formula = ..y ~ ., family = stats::binomial, data = data)
 
 Coefficients:
-  (Intercept)    screened_X1  bpg_deprs8_X2      mat_ed_X2      mat_ed_X3  
-      2.14436       -0.27543       -1.21666       -0.30775       -0.25397  
-    mat_ed_X4      mat_ed_X5  
-     -0.08452        0.36571  
+      (Intercept)        screened_X1  bpg_deprs8_bin_X1          mat_ed_X2  
+          0.92770           -0.27543            1.21666           -0.30775  
+        mat_ed_X3          mat_ed_X4          mat_ed_X5  
+         -0.25397           -0.08452            0.36571  
 
 Degrees of Freedom: 233212 Total (i.e. Null);  233206 Residual
 Null Deviance:      189700 
@@ -346,6 +347,12 @@ Residual Deviance: 179200   AIC: 179300</code></pre>
 <pre><code>[1] TRUE</code></pre>
 </div>
 </div>
+</section>
+<section id="running-bivariate-models-first-to-assess-unadjusted-associations-before-adjusting" class="level1">
+<h1>Running bivariate models first to assess unadjusted associations before adjusting</h1>
+</section>
+<section id="covariates-include-age-raceethnicity-and-insurance-established-confounders-in-the-literature" class="level1">
+<h1>Covariates include age, race/ethnicity, and insurance – established confounders in the literature</h1>
 </section>
 
 </main>

diff --git a/code/eda/03_exploratory_analysis.html b/code/eda/03_exploratory_analysis.html
@@ -123,7 +123,7 @@ pre > code.sourceCode > span > a:first-child::before { text-decoration: underlin
 <span id="cb1-10"><a href="#cb1-10" aria-hidden="true" tabindex="-1"></a></span>
 <span id="cb1-11"><a href="#cb1-11" aria-hidden="true" tabindex="-1"></a><span class="fu">dim</span>(analytic_dat)</span></code></pre></div><button title="Copy to Clipboard" class="code-copy-button"><i class="bi"></i></button></div>
 <div class="cell-output cell-output-stdout">
-<pre><code>[1] 237392     18</code></pre>
+<pre><code>[1] 237392     19</code></pre>
 </div>
 </div>
 </section>
@@ -293,22 +293,22 @@ pre > code.sourceCode > span > a:first-child::before { text-decoration: underlin
 <h1>Depression by prior depression during pregnancy</h1>
 <div class="cell">
 <div class="code-copy-outer-scaffold"><div class="sourceCode cell-code" id="cb12"><pre class="sourceCode r code-with-copy"><code class="sourceCode r"><span id="cb12-1"><a href="#cb12-1" aria-hidden="true" tabindex="-1"></a>dep_prior_tbl <span class="ot">&lt;-</span> analytic_dat <span class="sc">|&gt;</span></span>
-<span id="cb12-2"><a href="#cb12-2" aria-hidden="true" tabindex="-1"></a>  <span class="fu">count</span>(bpg_deprs8, pp_depress_bin) <span class="sc">|&gt;</span></span>
-<span id="cb12-3"><a href="#cb12-3" aria-hidden="true" tabindex="-1"></a>  <span class="fu">group_by</span>(bpg_deprs8) <span class="sc">|&gt;</span></span>
+<span id="cb12-2"><a href="#cb12-2" aria-hidden="true" tabindex="-1"></a>  <span class="fu">count</span>(bpg_deprs8_bin, pp_depress_bin) <span class="sc">|&gt;</span></span>
+<span id="cb12-3"><a href="#cb12-3" aria-hidden="true" tabindex="-1"></a>  <span class="fu">group_by</span>(bpg_deprs8_bin) <span class="sc">|&gt;</span></span>
 <span id="cb12-4"><a href="#cb12-4" aria-hidden="true" tabindex="-1"></a>  <span class="fu">mutate</span>(<span class="at">pct =</span> n <span class="sc">/</span> <span class="fu">sum</span>(n))</span>
 <span id="cb12-5"><a href="#cb12-5" aria-hidden="true" tabindex="-1"></a></span>
 <span id="cb12-6"><a href="#cb12-6" aria-hidden="true" tabindex="-1"></a>dep_prior_tbl</span></code></pre></div><button title="Copy to Clipboard" class="code-copy-button"><i class="bi"></i></button></div>
 <div class="cell-output cell-output-stdout">
 <pre><code># A tibble: 6 × 4
-# Groups:   bpg_deprs8 [3]
-  bpg_deprs8 pp_depress_bin      n   pct
-       &lt;dbl&gt;          &lt;dbl&gt;  &lt;int&gt; &lt;dbl&gt;
-1          1              0  21603 0.109
-2          1              1 175943 0.891
-3          2              0  11601 0.307
-4          2              1  26157 0.693
-5         NA              0    395 0.189
-6         NA              1   1693 0.811</code></pre>
+# Groups:   bpg_deprs8_bin [3]
+  bpg_deprs8_bin pp_depress_bin      n   pct
+           &lt;dbl&gt;          &lt;dbl&gt;  &lt;int&gt; &lt;dbl&gt;
+1              0              0  11601 0.307
+2              0              1  26157 0.693
+3              1              0  21603 0.109
+4              1              1 175943 0.891
+5             NA              0    395 0.189
+6             NA              1   1693 0.811</code></pre>
 </div>
 </div>
 </section>